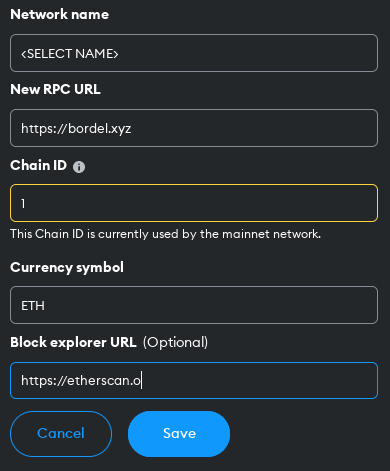
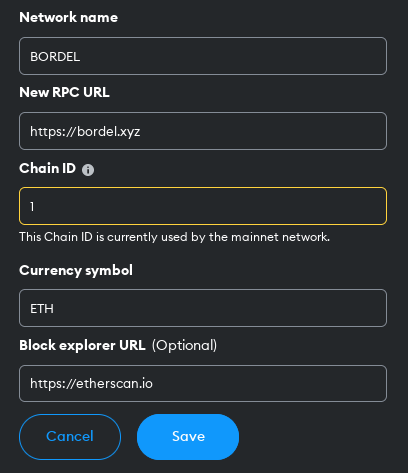
adding new pic of custom information and selcting in main window

diff --git a/src/change_rpc.md b/src/change_rpc.md
@@ -30,5 +30,9 @@ This need to be a TRUSTED endpoint.
 
 ![](./pics/custom_rpc_information.png)
 
+**5) Save the information and choose your *custom RPC* here:**
+
+![](./pics/custom_rpc.png)
+
 
 More information about RPC in [Anonymizing assets](./anonymizing_assets.md)
